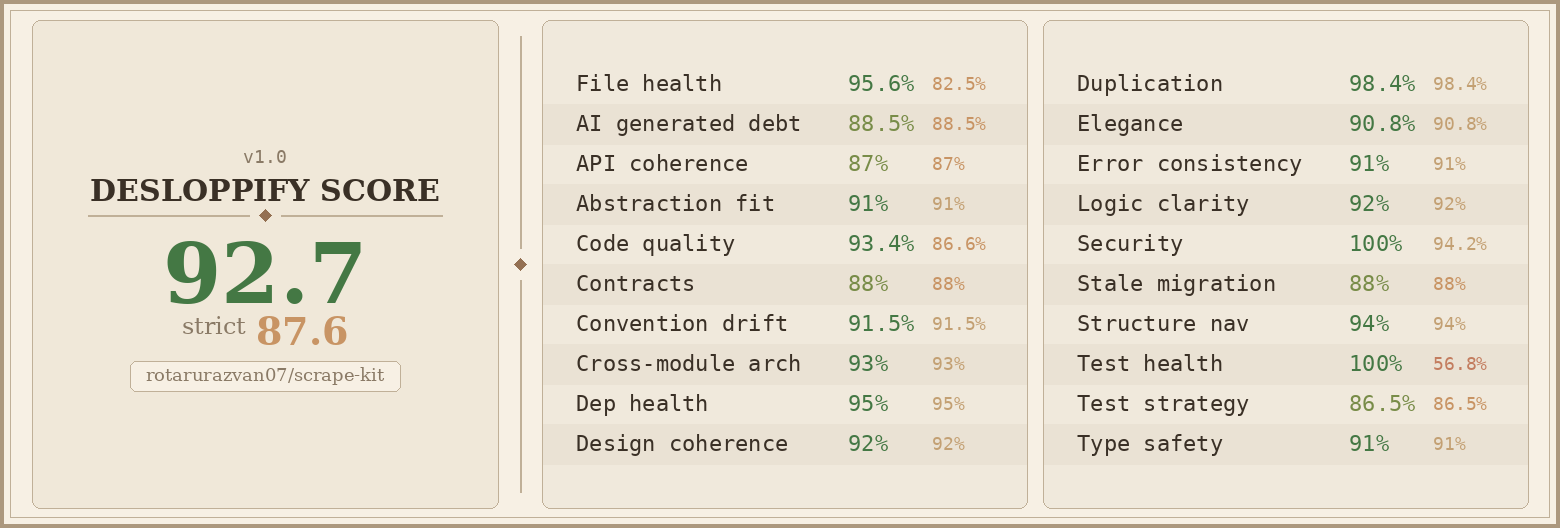
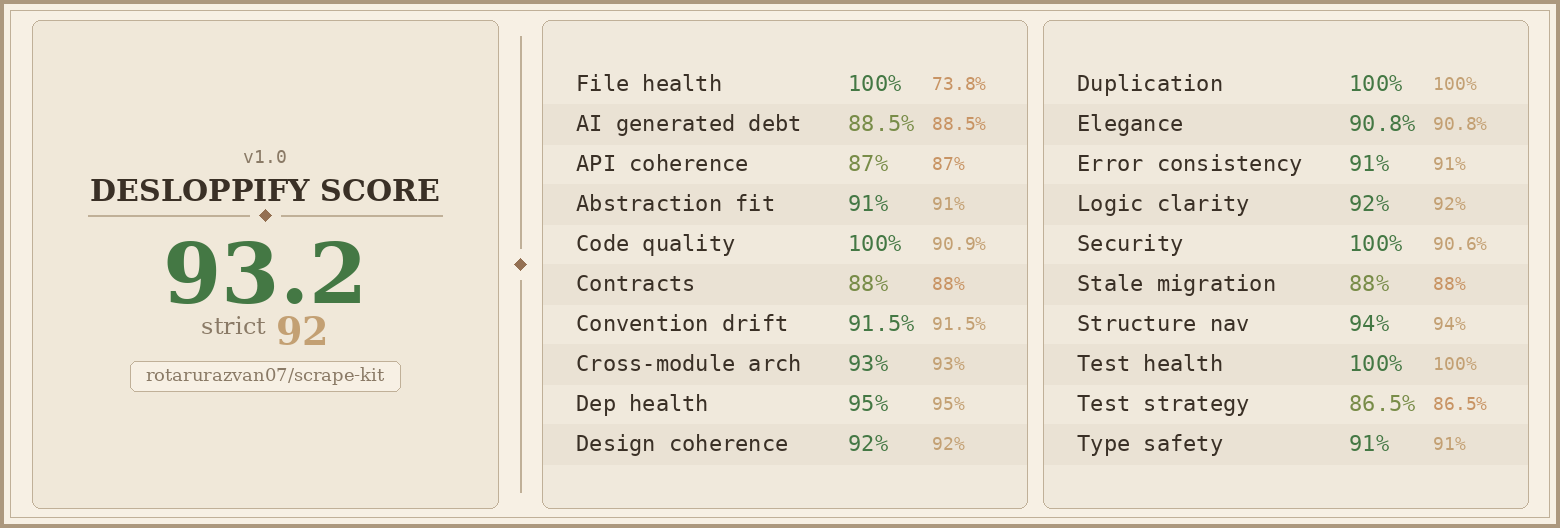
desloppify: fix 3 boilerplate_duplication findings (#35)
The fetch(), browser() and scrape() proxy docstrings in scrape_kit/fetcher/__init__.py
duplicated their full argument/return/raise contracts (9-13 line blocks each) with
the implementation methods in web_fetcher.py and batch.py.

Replaced the duplicated blocks with short pointers to the owning implementations,
keeping each proxy's signature and behavior unchanged. Duplication dimension:
97.6% -> 100.0% (strict). Strict score: 87.5 -> 92.0.

Tests: 366 passed, 97% coverage (fetcher/__init__.py at 100%).
Ruff: no new findings (1 pre-existing on both HEAD and main).
Mypy --strict: clean on the changed file. Interrogate: 100%.
Also refreshed scorecard.png.

diff --git a/scrape_kit/fetcher/__init__.py b/scrape_kit/fetcher/__init__.py
@@ -39,18 +39,11 @@ def _get_shared() -> WebFetcher:
 def fetch(url: str, stealthy_headers: bool = False, retries: int = 3, backoff: float = 5.0) -> str:
     """Fetch a URL via the shared WebFetcher instance.
 
-    Args:
-        url: The URL to fetch.
-        stealthy_headers: Whether to use stealthy headers. Defaults to False.
-        retries: Number of retry attempts. Defaults to 3.
-        backoff: Backoff multiplier in seconds. Defaults to 5.0.
-
-    Returns:
-        The HTML content as a string.
-
-    Raises:
-        ValueError: If retries is less than 1.
-        FetcherError: If fetching fails after all retries.
+    Thin proxy that passes its arguments straight through, so the full
+    contract (escalation behaviour, ``ValueError`` for ``retries < 1`` and
+    ``FetcherError`` after all retries) lives in
+    :meth:`WebFetcher.fetch <scrape_kit.fetcher.web_fetcher.WebFetcher.fetch>`
+    and applies unchanged here.
     """
     return _get_shared().fetch(url, stealthy_headers=stealthy_headers, retries=retries, backoff=backoff)
 
@@ -76,11 +69,10 @@ def browser(
 ) -> InteractiveSession:
     """Open an interactive browser session via the shared WebFetcher instance.
 
-    Args:
-        headless: Whether to run in headless mode. Defaults to True.
-        solve_cloudflare: Enable Cloudflare challenge solving. Defaults to False.
-        interactive: Enable interactive features. Defaults to True.
-        **kwargs: Additional arguments passed to the Scrapling session.
+    Thin proxy that passes its arguments straight through, so the full
+    contract (session options, accepted ``**kwargs`` and raised errors) lives
+    in :meth:`WebFetcher.browser <scrape_kit.fetcher.web_fetcher.WebFetcher.browser>`
+    and applies unchanged here.
 
     Returns:
         An InteractiveSession instance.
@@ -99,23 +91,13 @@ def scrape(
 ) -> None:
     """Scrape multiple URLs via the shared WebFetcher instance.
 
-    Args:
-        urls: List of URLs to scrape.
-        callback: Function to call with (url, html) for each successful fetch.
-        mode: Scraping mode - "fast" or "stealth" (ScrapeMode values). Defaults to "fast".
-        max_concurrency: Maximum concurrent requests. Defaults to 1.
-        retry_hook: Optional quality gate consulted after each successful fetch.
-            Returning a reason string defers that URL to another retry pass.
-            Ignored when max_retries is 0.
-        max_retries: Additional retry passes for hook-flagged URLs. Defaults to 0.
-
-    STEALTH uses ``asyncio.run`` and cannot be called from a running event loop.
-
-    Raises:
-        ValueError: If mode is unsupported, ``max_concurrency`` is less than 1, or
-            ``max_retries`` is less than 0.
-        RuntimeError: If STEALTH is requested from a running event loop.
-        FetcherError: If scraping encounters fetch failures.
+    Thin proxy that passes its arguments straight through, so the full
+    contract (mode values, concurrency semantics, the optional
+    ``retry_hook`` quality gate with ``max_retries``, the ``asyncio.run``
+    restriction on STEALTH and raised errors) lives in
+    :meth:`BatchScraperMixin.scrape
+    <scrape_kit.fetcher.batch.BatchScraperMixin.scrape>` and applies
+    unchanged here.
     """
     _get_shared().scrape(
         urls,
